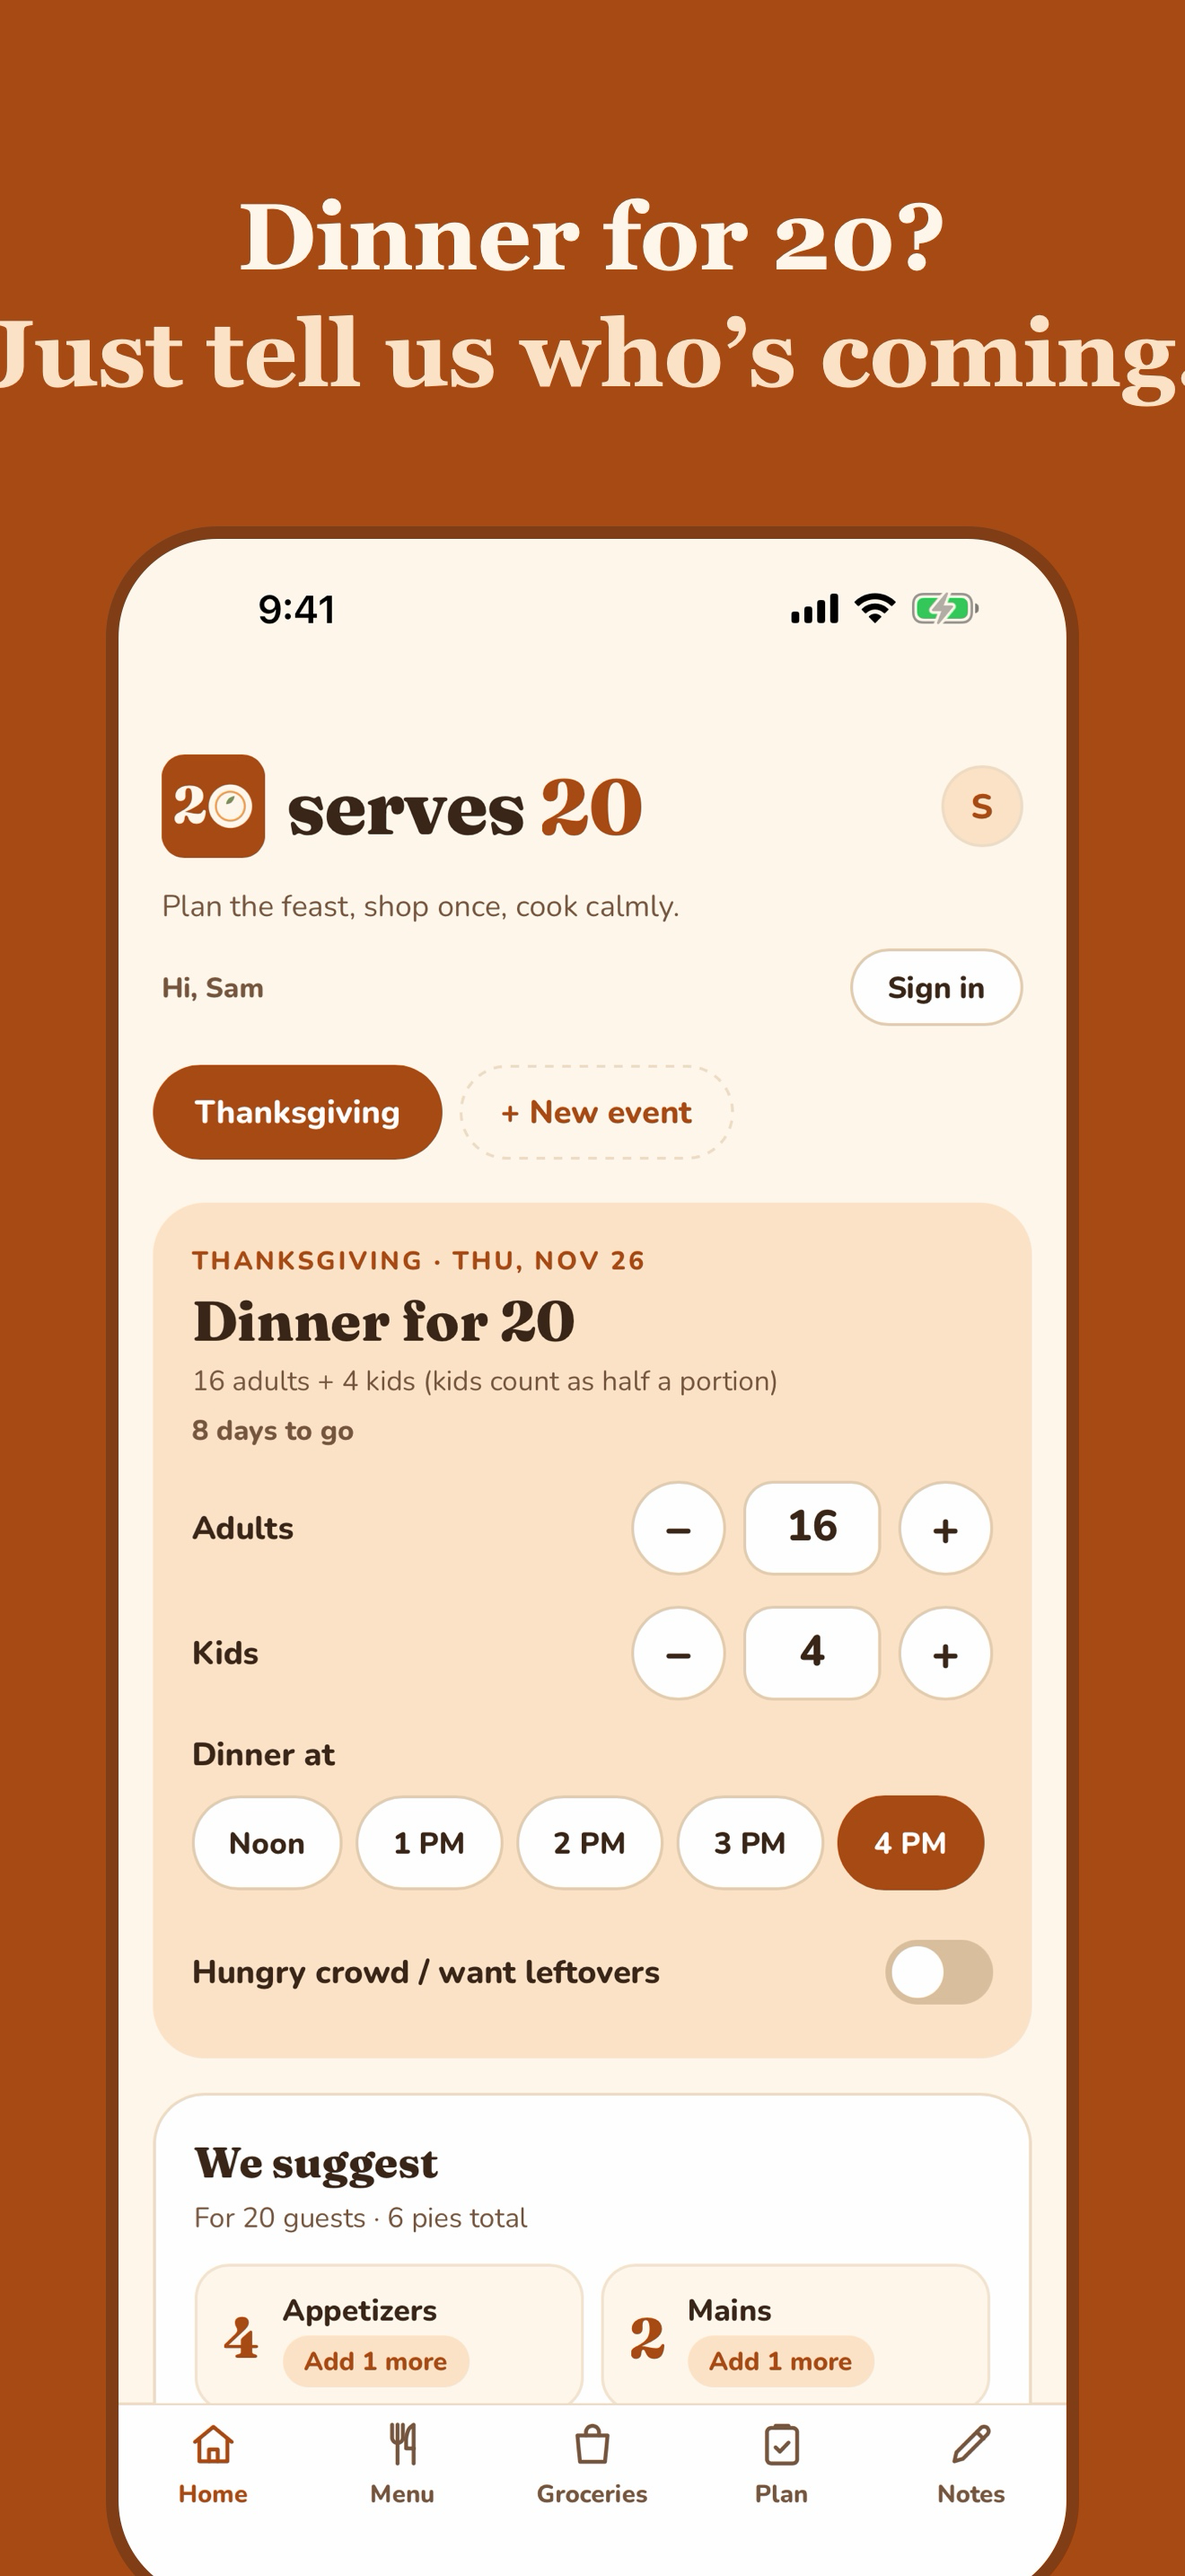
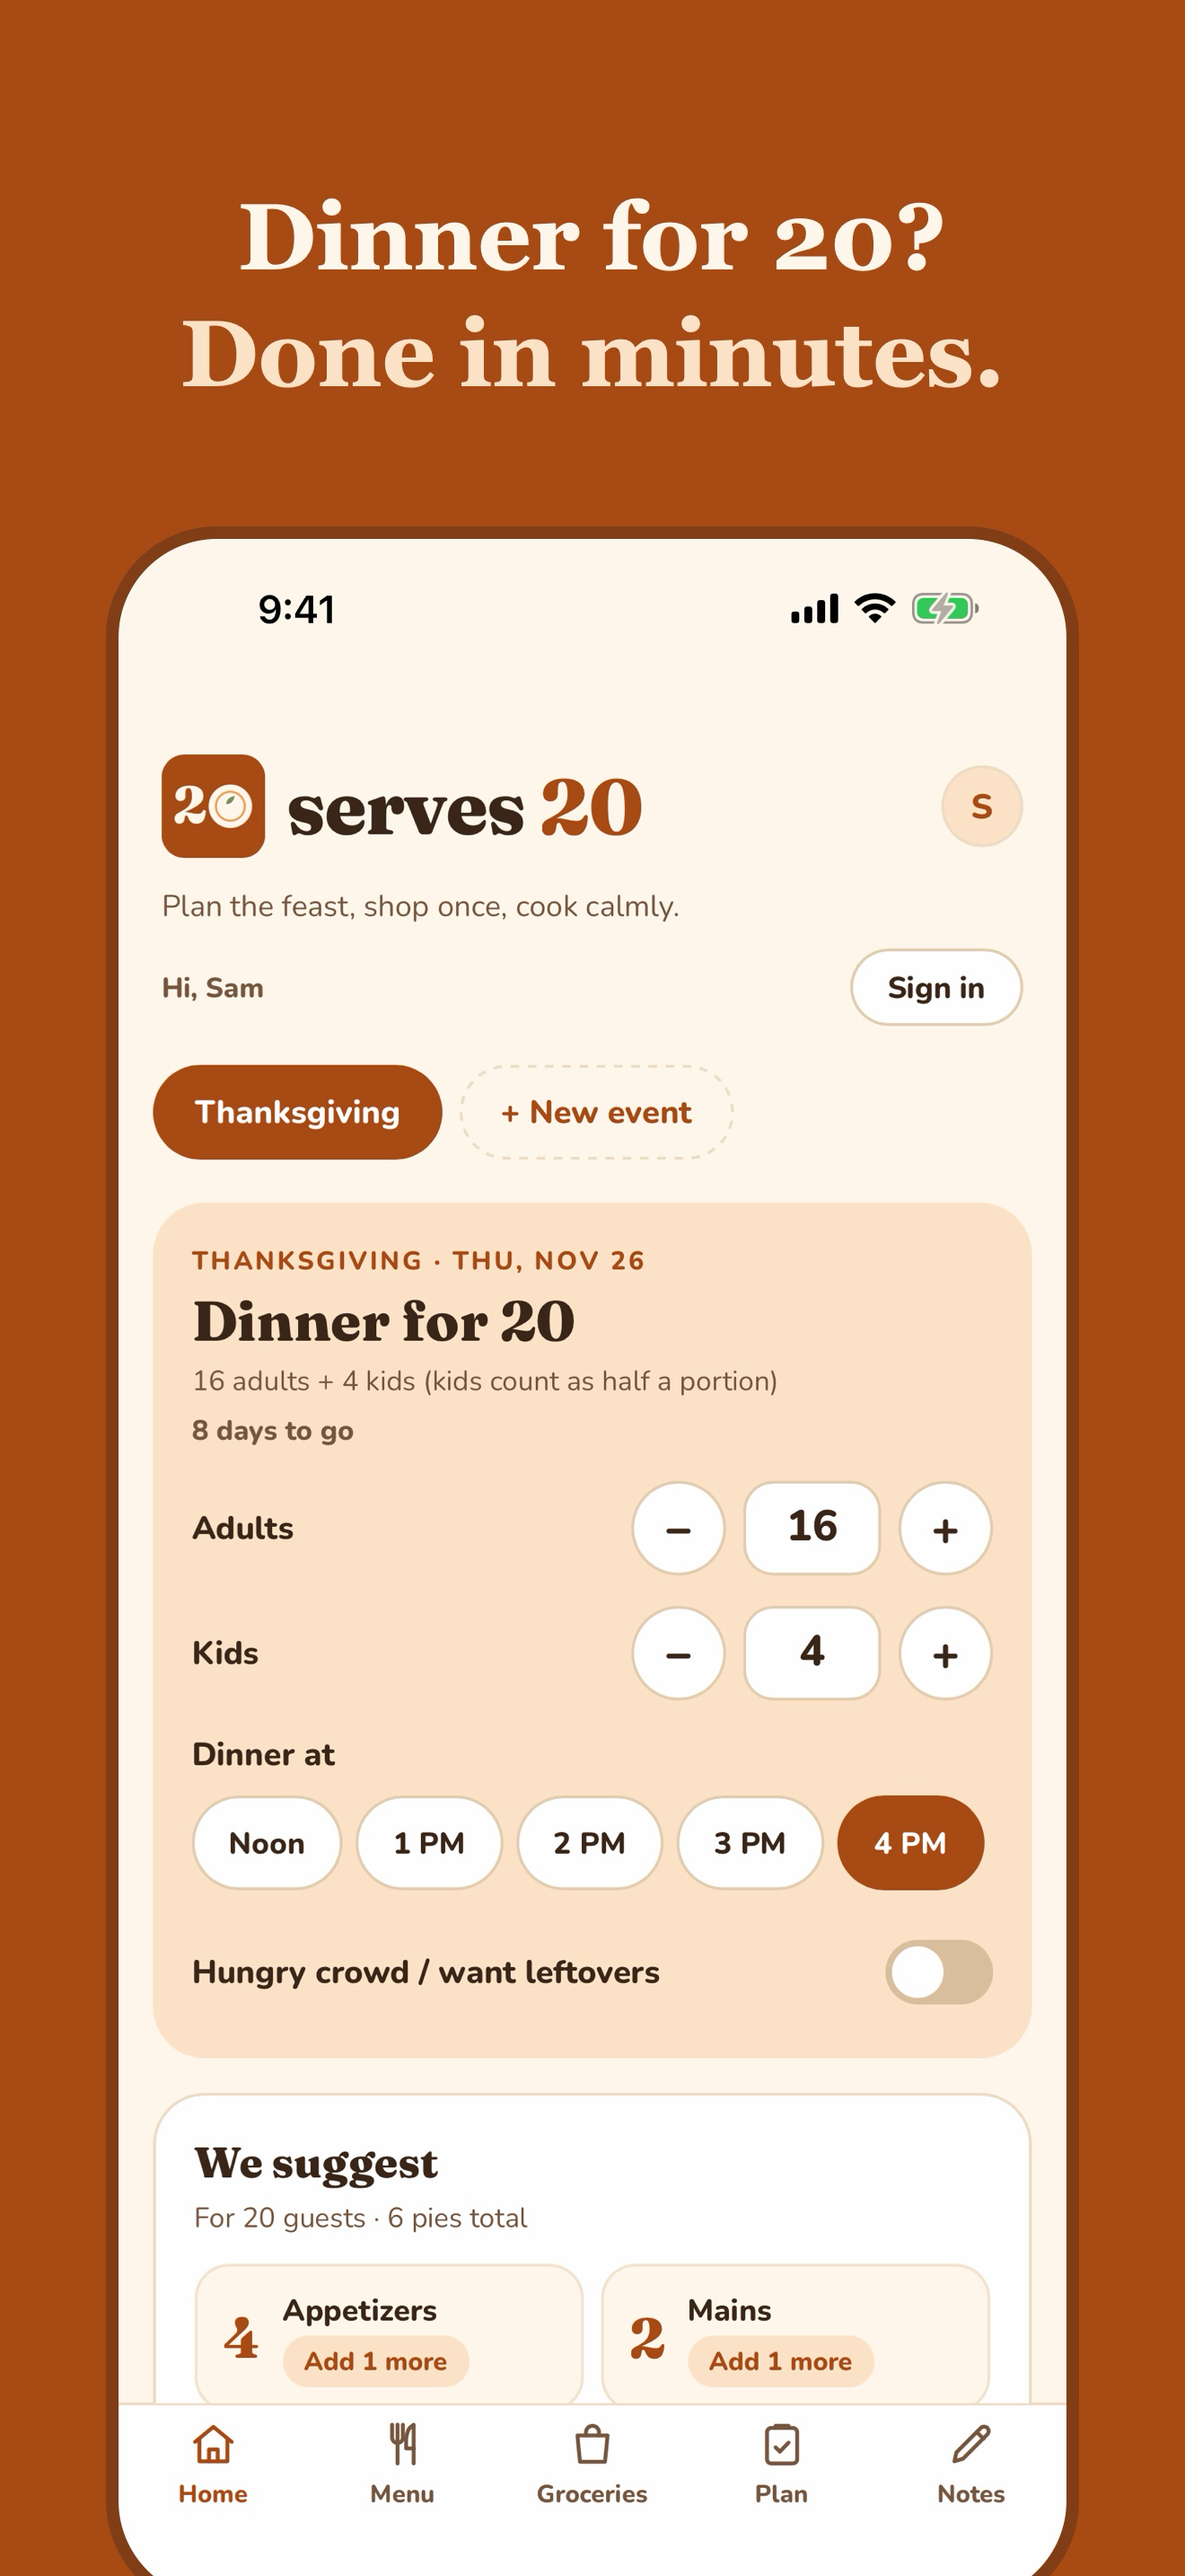
Front page: app preview strip and Get started button; fix two screenshot captions

Changed region(s): [[0.0, 0.1241, 0.9939, 0.1552]]

diff --git a/src/Landing.tsx b/src/Landing.tsx
@@ -11,6 +11,14 @@ const FEATURES: [string, string][] = [
   ["On every device", "Sign in with just your email, no password, and your plans follow you from phone to computer."],
 ];
 
+const SHOTS: [string, string][] = [
+  ["01-home", "Home screen: dinner for 20, with adults, kids and dinner time"],
+  ["02-menu", "Menu screen: who is bringing what"],
+  ["03-groceries", "Groceries screen: one shopping list with items checked off"],
+  ["04-plan", "Cooking plan screen: an hour-by-hour plan for the big day"],
+  ["05-notes", "Notes screen: what worked, what to change"],
+];
+
 /** The front page of serves20.com for first-time visitors. People who already use the app go straight to it. */
 export default function Landing() {
   const open = () => { location.hash = "#/app"; };
@@ -18,7 +26,7 @@ export default function Landing() {
     <div className="land">
       <header className="land-top">
         <div className="brand"><Logo size={40} /><h1 className="wm"><Wordmark /></h1></div>
-        <button className="btn ghost" onClick={open}>{PAYWALL_ON ? "Sign in" : "Open the app"}</button>
+        <button className="btn ghost" onClick={open}>{PAYWALL_ON ? "Sign in" : "Open app"}</button>
       </header>
 
       <section className="land-hero">
@@ -26,9 +34,13 @@ export default function Landing() {
         <h2>Plan the feast.<br />Shop once.<br />Cook calmly.</h2>
         <p className="land-lead">Tell Serves 20 how many are coming. It builds the menu, the shopping list and the cooking schedule, and lets your guests sign up to bring a dish.</p>
         <div className="land-cta">
-          <button className="btn" onClick={open}>{PAYWALL_ON ? `Get Serves 20 · ${PRICE_LABEL}` : "Open the app"}</button>
+          <button className="btn" onClick={open}>{PAYWALL_ON ? `Get Serves 20 · ${PRICE_LABEL}` : "Get started"}</button>
           {PAYWALL_ON && <span className="sub">One-time purchase. No subscription.</span>}
         </div>
+      </section>
+
+      <section className="land-preview" aria-label="A look inside the app">
+        {SHOTS.map(([n, alt]) => <img key={n} src={`./brand/preview/${n}.jpg`} alt={alt} width="600" height="1304" loading={n === "01-home" ? "eager" : "lazy"} />)}
       </section>
 
       <section className="land-grid" aria-label="What it does">

diff --git a/src/styles.css b/src/styles.css
@@ -155,3 +155,6 @@ body:has(.land) #root { height: auto; }
 
 .pill2 .pillx { margin: 0 -4px 0 6px; padding: 4px 8px; border: none; background: transparent; color: var(--muted); font-weight: 800; font-size: 13px; line-height: 1; }
 a { color: var(--deep); }
+.land-preview { display: flex; gap: 16px; overflow-x: auto; scroll-snap-type: x proximity; padding: 4px 2px 12px; margin: 0 -20px; padding-left: 20px; padding-right: 20px; -webkit-overflow-scrolling: touch; }
+.land-preview img { flex: none; height: min(62vh, 560px); width: auto; aspect-ratio: 600 / 1304; border-radius: 28px; scroll-snap-align: start; box-shadow: 0 10px 30px rgba(58,38,24,.18); background: var(--soft); }
+@media (min-width: 1100px) { .land-preview { justify-content: center; margin: 0; padding: 4px 0 12px; } .land-preview img { height: 520px; } }
